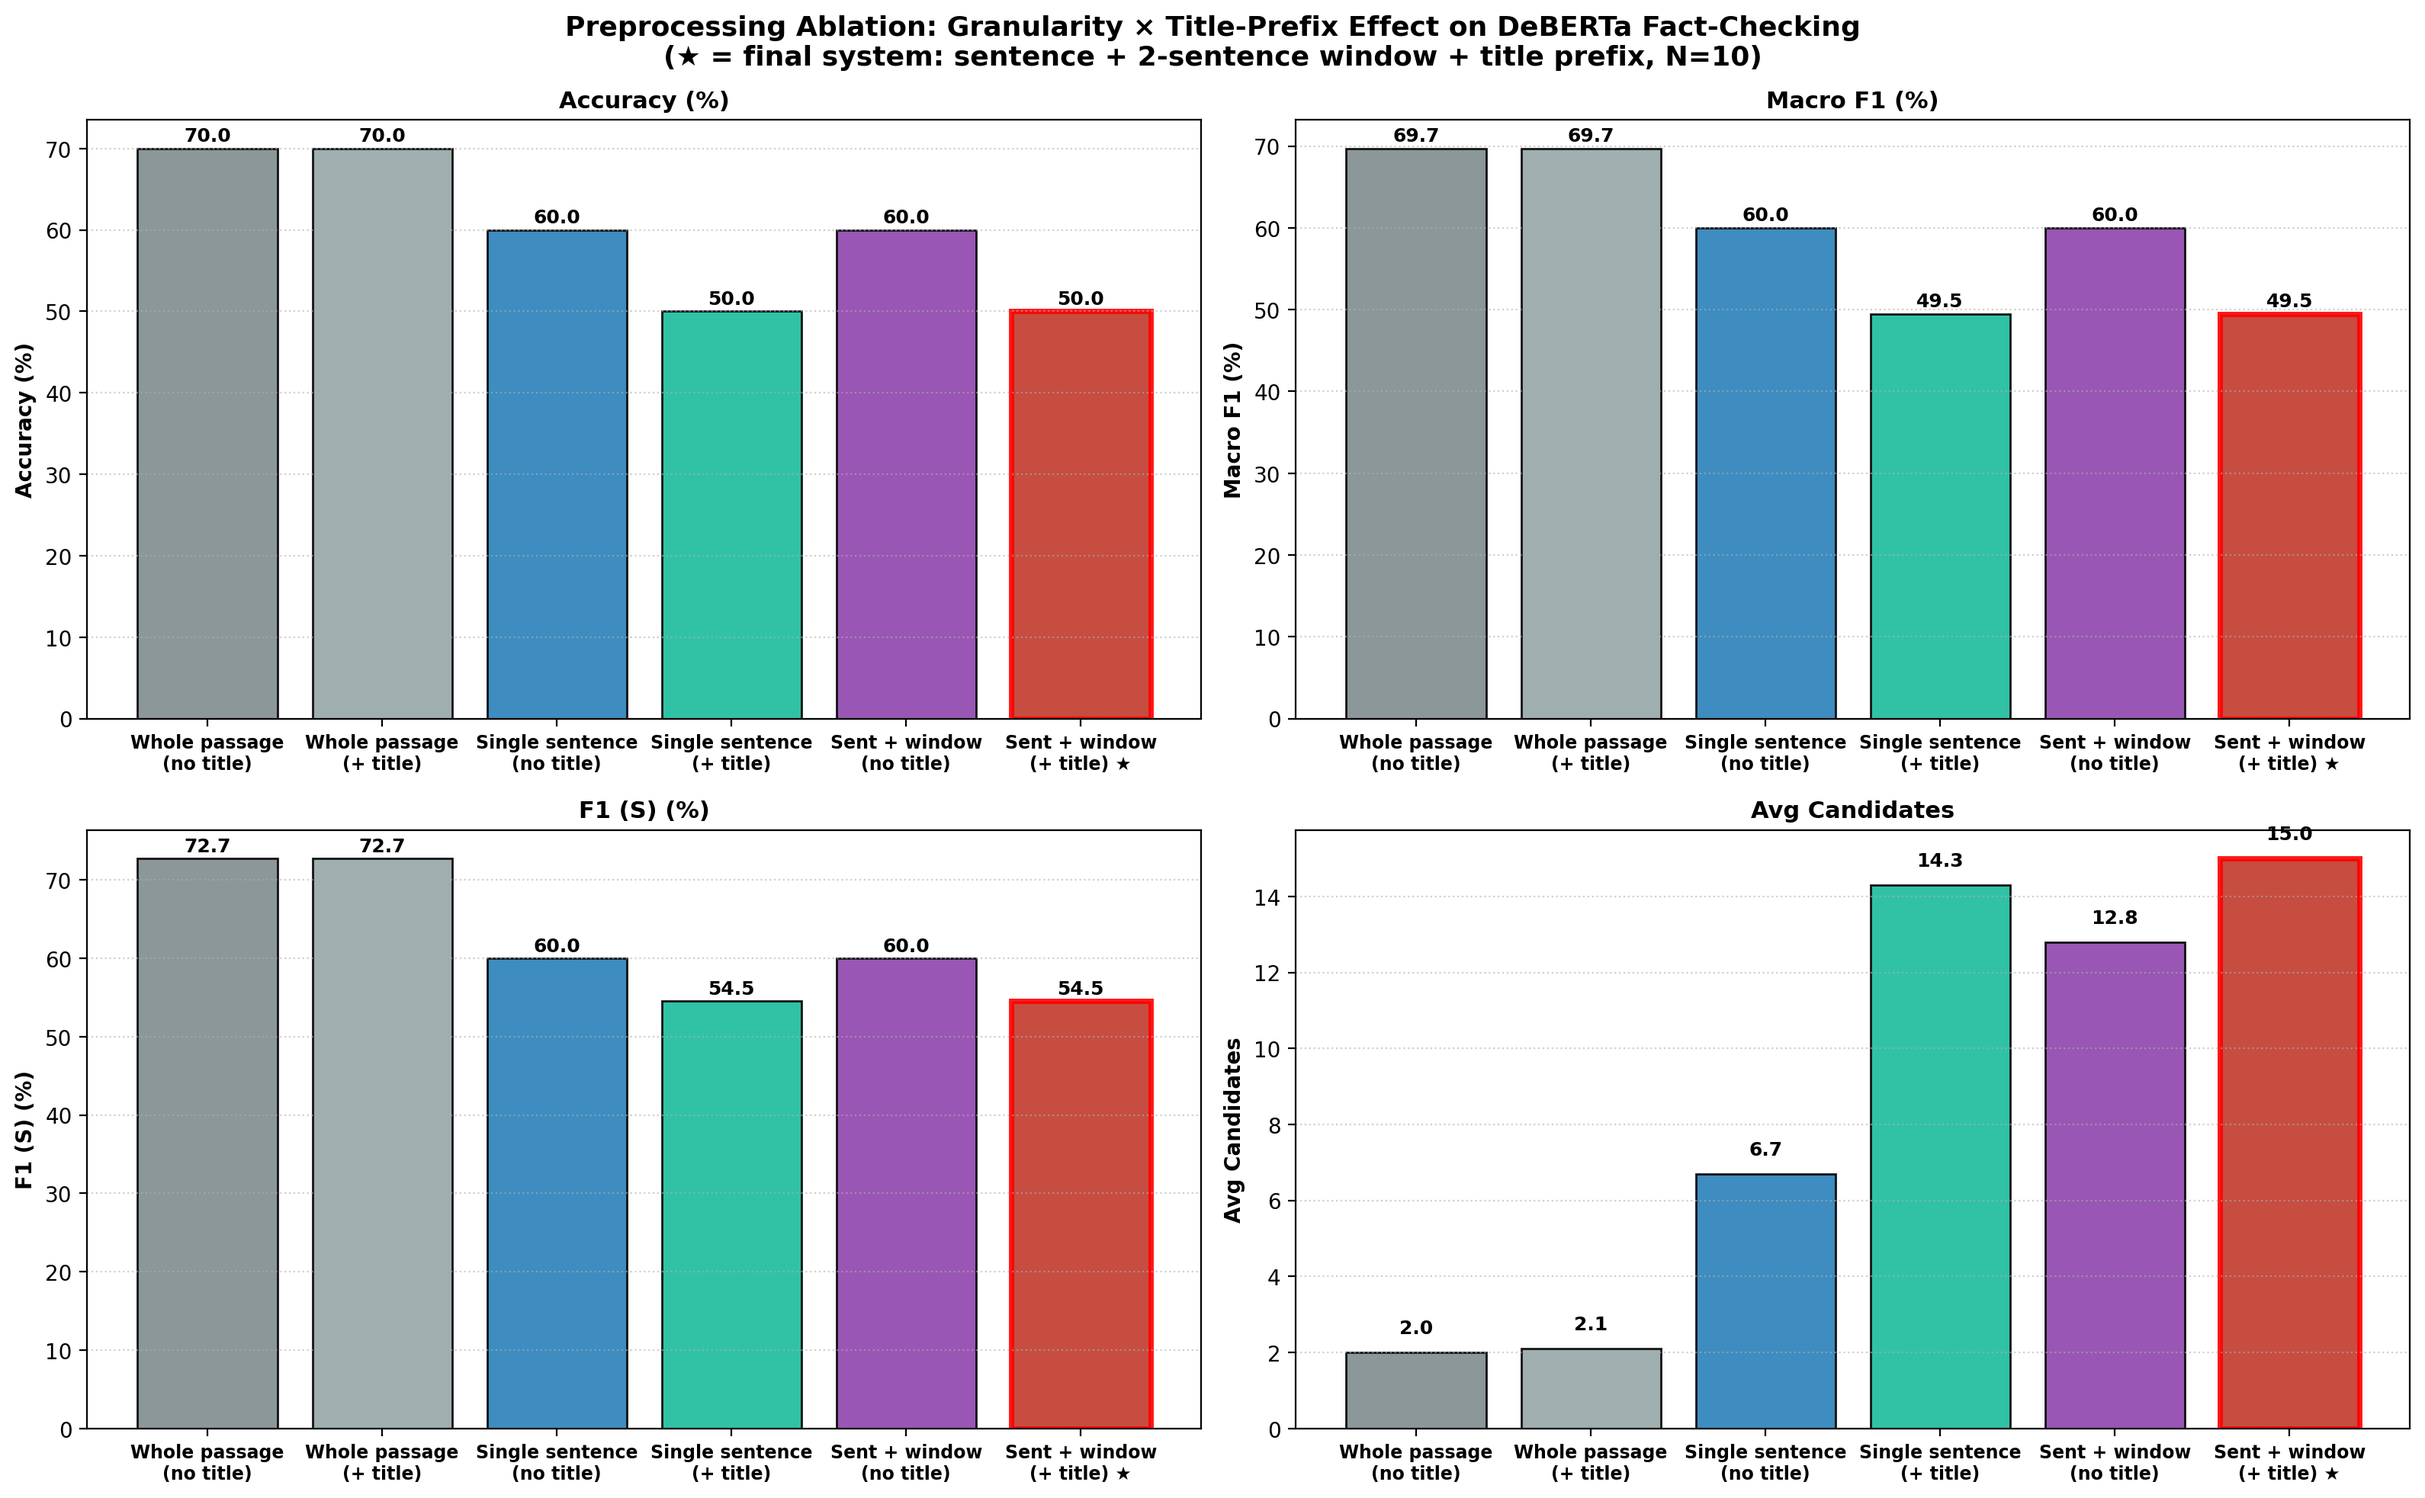
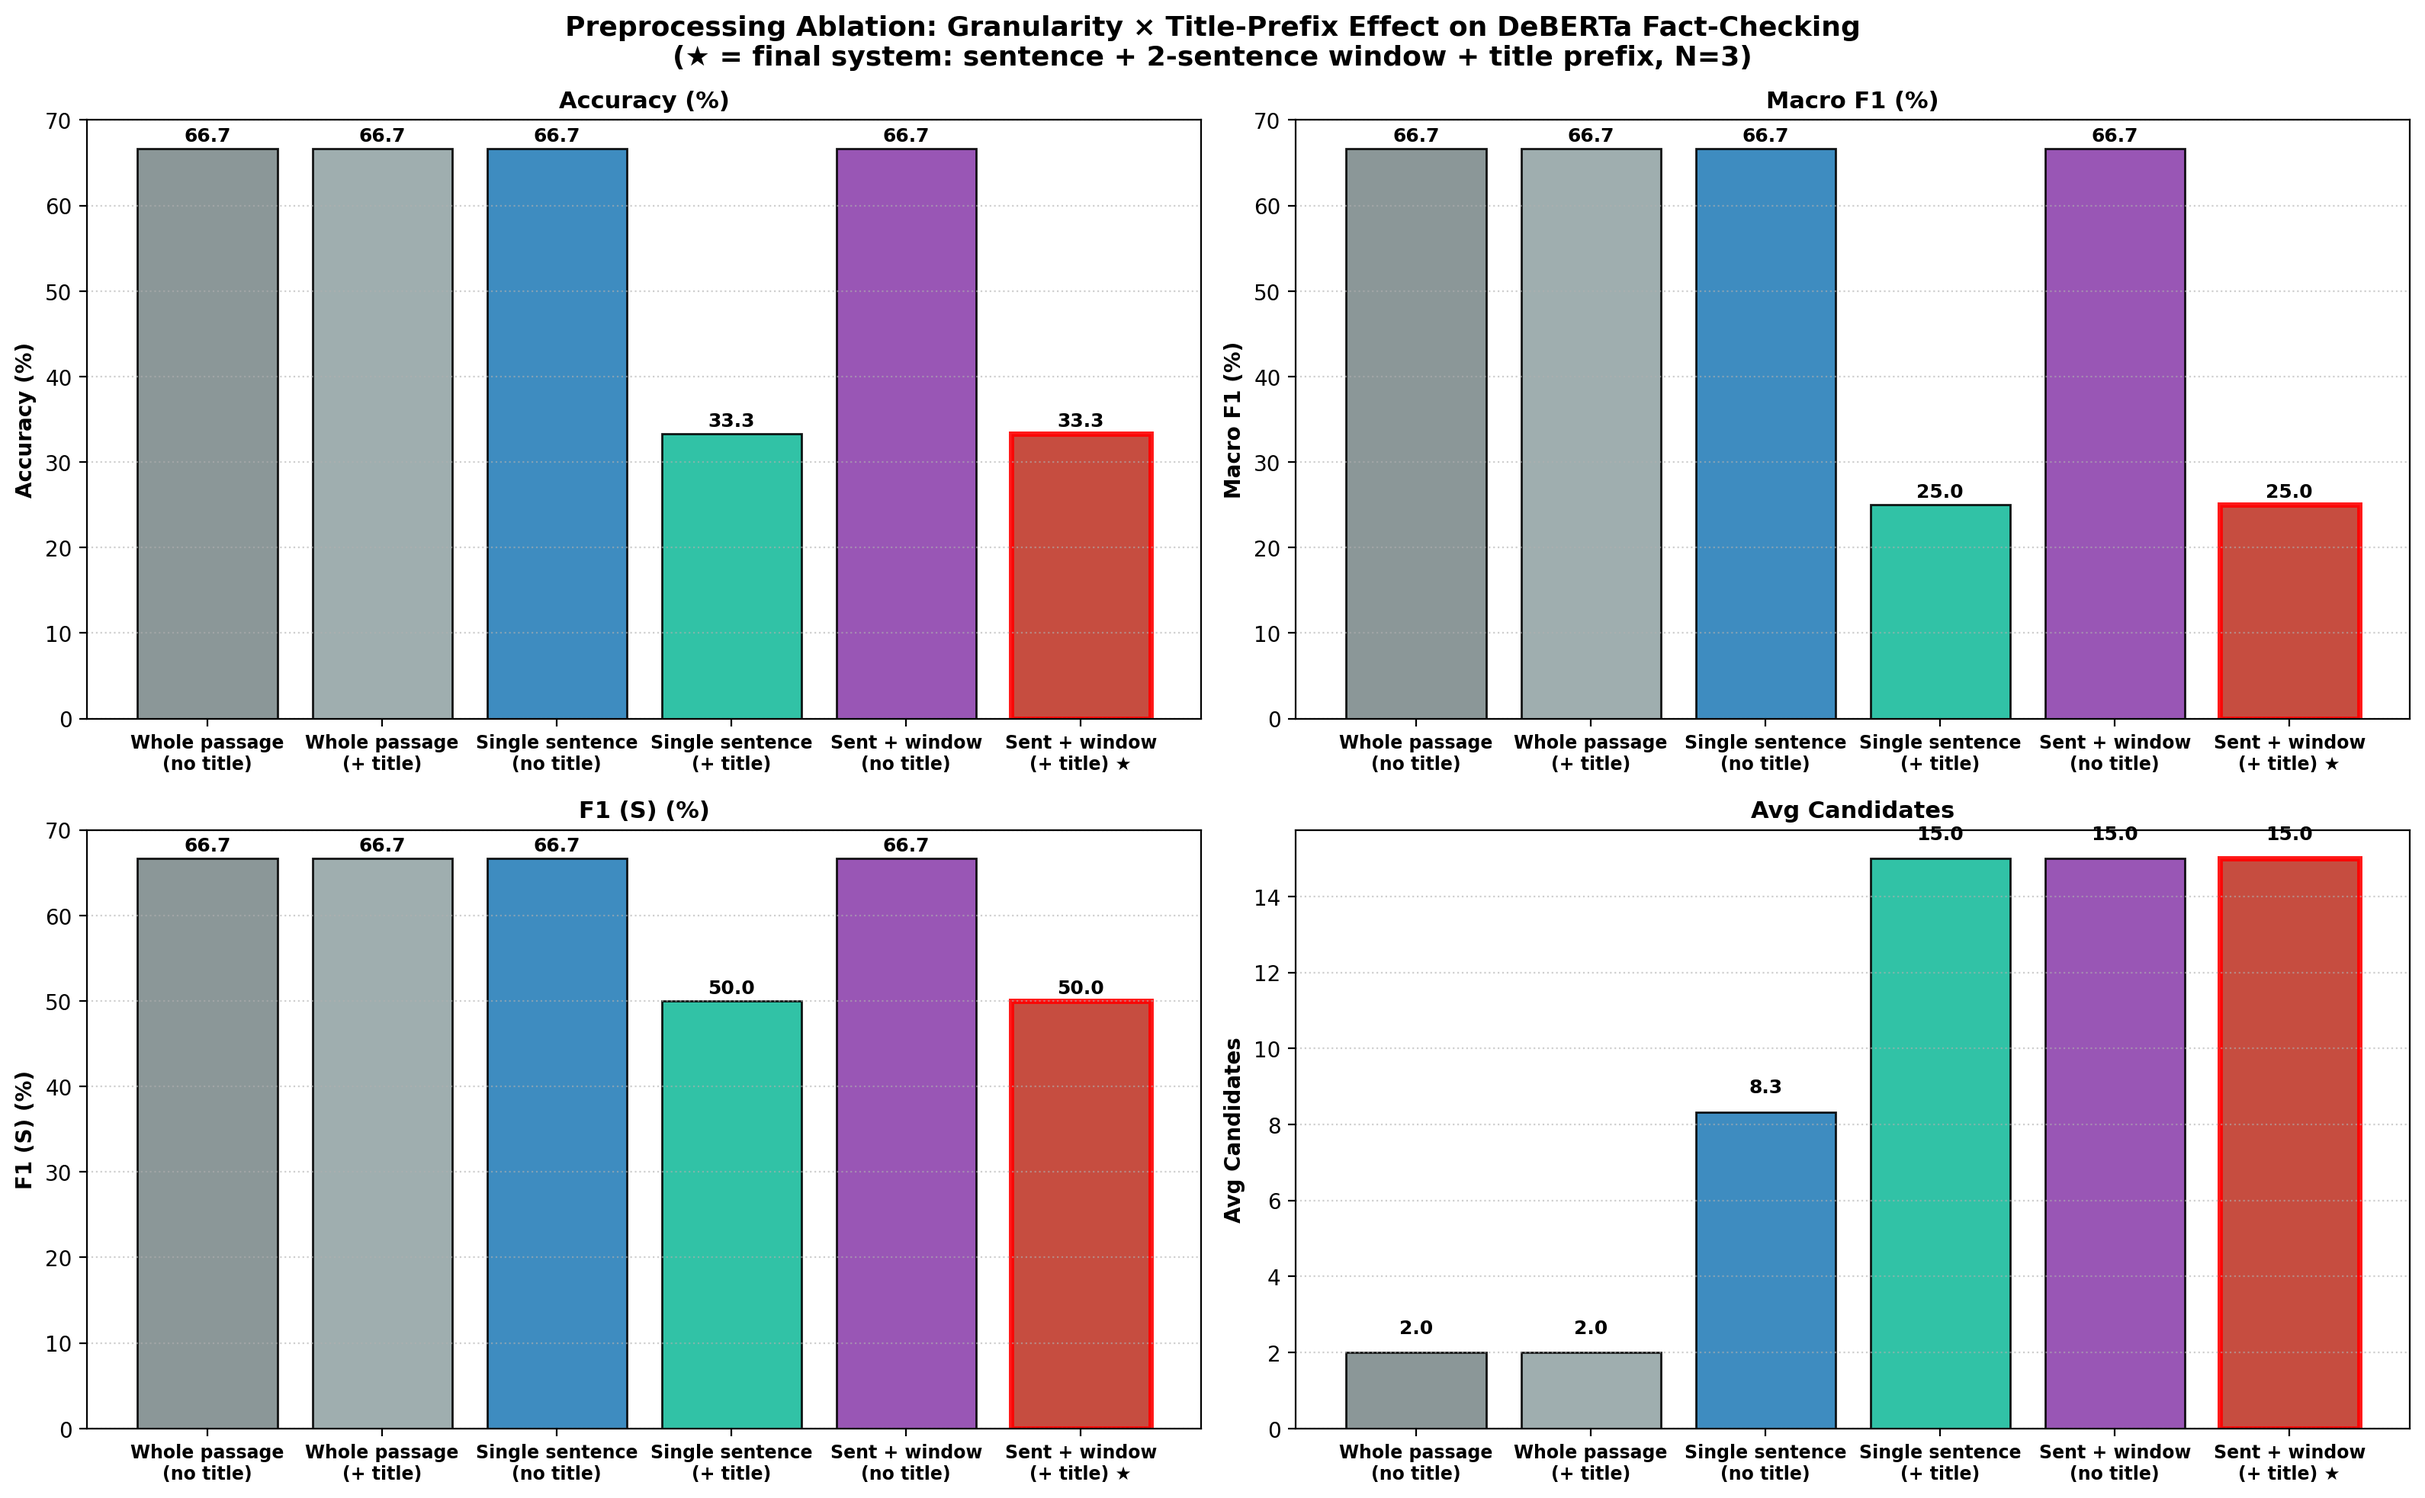
add ablation results

diff --git a/print_ablation_tables.py b/print_ablation_tables.py
@@ -1,0 +1,178 @@
+"""
+print_ablation_tables.py
+========================
+Reads the JSON outputs produced by ablation_experiments.py and prints
+ready-to-paste report tables for:
+
+  A. Pruning ablation  (§2.2 of your report)
+  B. Preprocessing ablation  (§2.1.9–2.1.10)
+
+Usage:
+    python print_ablation_tables.py
+
+Expects (in eda_plots/):
+    pruning_ablation.json
+    preprocessing_ablation_full.json
+"""
+
+import json
+import os
+import sys
+
+PLOT_DIR = "eda_plots"
+PRUNING_JSON  = os.path.join(PLOT_DIR, "pruning_ablation.json")
+PREP_JSON     = os.path.join(PLOT_DIR, "preprocessing_ablation_full.json")
+
+
+def _load(path):
+    if not os.path.exists(path):
+        print(f"[ERROR] File not found: {path}")
+        print("        Run:  python ablation_experiments.py")
+        return None
+    with open(path, encoding="utf-8") as f:
+        return json.load(f)
+
+
+def print_pruning_table(d: dict):
+    no  = d["no_pruning"]
+    yes = d["with_pruning"]
+    meta = d.get("_meta", {})
+
+    print()
+    print("=" * 72)
+    print("TABLE A — PRUNING ABLATION  (Entailment §2.2)")
+    print(f"  Similarity metric : {meta.get('similarity_metric_description', 'unigram_recall')}")
+    print(f"  Prune threshold   : recall >= {yes.get('prune_threshold', 0.2)}")
+    print(f"  NLI model         : DeBERTa-v3-base-mnli-fever-anli")
+    print(f"  N examples        : {no['total']}")
+    print("=" * 72)
+
+    # Row header
+    h = f"  {'Metric':<30}  {'No Pruning':>12}  {'With Pruning':>13}  {'Δ':>8}"
+    print(h)
+    print("  " + "-" * 68)
+
+    def row(label, k_no, k_yes, fmt=".2f", unit="%"):
+        v_no  = no.get(k_no,  0.0)
+        v_yes = yes.get(k_yes, 0.0)
+        delta = v_yes - v_no
+        sign  = "+" if delta >= 0 else ""
+        print(f"  {label:<30}  {v_no:>11{fmt}}{unit}  {v_yes:>12{fmt}}{unit}  {sign}{delta:>7{fmt}}{unit}")
+
+    row("Accuracy",              "accuracy",   "accuracy")
+    row("Macro F1",              "macro_f1",   "macro_f1")
+    row("F1 (Supported)",        "f1_s",       "f1_s")
+    row("Precision (S)",         "precision_s","precision_s")
+    row("Recall (S)",            "recall_s",   "recall_s")
+
+    # Non-percentage rows
+    def row2(label, k_no, k_yes, fmt=".1f", unit=""):
+        v_no  = no.get(k_no,  0.0)
+        v_yes = yes.get(k_yes, 0.0)
+        delta = v_yes - v_no
+        sign  = "+" if delta >= 0 else ""
+        print(f"  {label:<30}  {v_no:>12{fmt}}{unit}  {v_yes:>12{fmt}}{unit}  {sign}{delta:>7{fmt}}{unit}")
+
+    print("  " + "-" * 68)
+    row2("Avg candidates (before)", "avg_candidates_before_pruning", "avg_candidates_before_pruning")
+    row2("Avg candidates (after)",  "avg_candidates_after_pruning",  "avg_candidates_after_pruning")
+    row2("Avg candidates removed",  "avg_candidates_removed",        "avg_candidates_removed")
+    row2("Total runtime (s)",       "runtime_s",   "runtime_s")
+    row2("Runtime per claim (s)",   "runtime_per_claim_s", "runtime_per_claim_s", fmt=".3f")
+
+    print("  " + "=" * 68)
+    print(f"  Accuracy speedup   : {meta.get('speedup_s', 0):+.1f} s  ({no['runtime_per_claim_s']:.3f} s/claim → {yes['runtime_per_claim_s']:.3f} s/claim)")
+    print(f"  Accuracy delta     : {meta.get('delta_accuracy_pp', 0):+.2f} pp")
+    print(f"  Macro F1 delta     : {meta.get('delta_macro_f1_pp', 0):+.2f} pp")
+    print("=" * 72)
+
+
+def print_preprocessing_table(d: dict):
+    ordered = [
+        ("whole_passage__no_title",       "Whole passage, no title"),
+        ("whole_passage__with_title",      "Whole passage, + title"),
+        ("single_sentence__no_title",     "Single sentence, no title"),
+        ("single_sentence__with_title",    "Single sentence, + title"),
+        ("sentence_window__no_title",     "Sent + 2-sent window, no title"),
+        ("sentence_window__with_title",    "Sent + 2-sent window, + title  ★"),
+    ]
+
+    print()
+    print("=" * 100)
+    print("TABLE B — PREPROCESSING ABLATION  (§2.1.9–§2.1.10)")
+    print("  NLI model  : DeBERTa-v3-base-mnli-fever-anli")
+    print("  Pruning    : Recall-sieve, τ = 0.20  (applied in all conditions)")
+    n = d[ordered[0][0]]["total"] if ordered[0][0] in d else "?"
+    print(f"  N examples : {n}")
+    print("  ★ = final system")
+    print("=" * 100)
+
+    hdr = f"  {'Condition':<40} {'Acc':>7} {'MacroF1':>8} {'F1-S':>7} {'Prec-S':>8} {'Rec-S':>7} {'AvgCands':>9} {'RT(s)':>7}"
+    print(hdr)
+    print("  " + "-" * 96)
+
+    for key, label in ordered:
+        if key not in d:
+            print(f"  {label:<40}   MISSING")
+            continue
+        m = d[key]
+        print(
+            f"  {label:<40}"
+            f" {m['accuracy']:>7.2f}"
+            f" {m['macro_f1']:>8.2f}"
+            f" {m['f1_s']:>7.2f}"
+            f" {m['precision_s']:>8.2f}"
+            f" {m['recall_s']:>7.2f}"
+            f" {m['avg_candidates']:>9.1f}"
+            f" {m['runtime_s']:>7.1f}"
+        )
+    print("  " + "=" * 96)
+
+    # Key deltas for the report
+    if "sentence_window__with_title" in d and "sentence_window__no_title" in d:
+        final   = d["sentence_window__with_title"]
+        no_title= d["sentence_window__no_title"]
+        da = final["accuracy"] - no_title["accuracy"]
+        df = final["macro_f1"] - no_title["macro_f1"]
+        print(f"\n  Title-prefix effect (window conditions):")
+        print(f"    Accuracy : {no_title['accuracy']:.2f}% → {final['accuracy']:.2f}%  ({da:+.2f} pp)")
+        print(f"    Macro F1 : {no_title['macro_f1']:.2f}% → {final['macro_f1']:.2f}%  ({df:+.2f} pp)")
+
+    if "whole_passage__with_title" in d and "single_sentence__with_title" in d and "sentence_window__with_title" in d:
+        wp = d["whole_passage__with_title"]
+        ss = d["single_sentence__with_title"]
+        sw = d["sentence_window__with_title"]
+        print(f"\n  Granularity effect (all with title):")
+        print(f"    Whole passage    : acc={wp['accuracy']:.2f}%  macro-F1={wp['macro_f1']:.2f}%")
+        print(f"    Single sentence  : acc={ss['accuracy']:.2f}%  macro-F1={ss['macro_f1']:.2f}%")
+        print(f"    + window (final) : acc={sw['accuracy']:.2f}%  macro-F1={sw['macro_f1']:.2f}%")
+    print("=" * 100)
+
+
+def main():
+    pruning = _load(PRUNING_JSON)
+    prep    = _load(PREP_JSON)
+
+    any_missing = False
+    if pruning is None or prep is None:
+        any_missing = True
+
+    if pruning:
+        print_pruning_table(pruning)
+
+    if prep:
+        print_preprocessing_table(prep)
+
+    if any_missing:
+        print("\n[ACTION REQUIRED]")
+        print("  Run the full experiment first:")
+        print("    python ablation_experiments.py")
+        print("  Then re-run this script to get the final tables.")
+        sys.exit(1)
+    else:
+        print("\n[OK] Both tables printed. Copy them into your report.")
+
+
+if __name__ == "__main__":
+    main()
+
